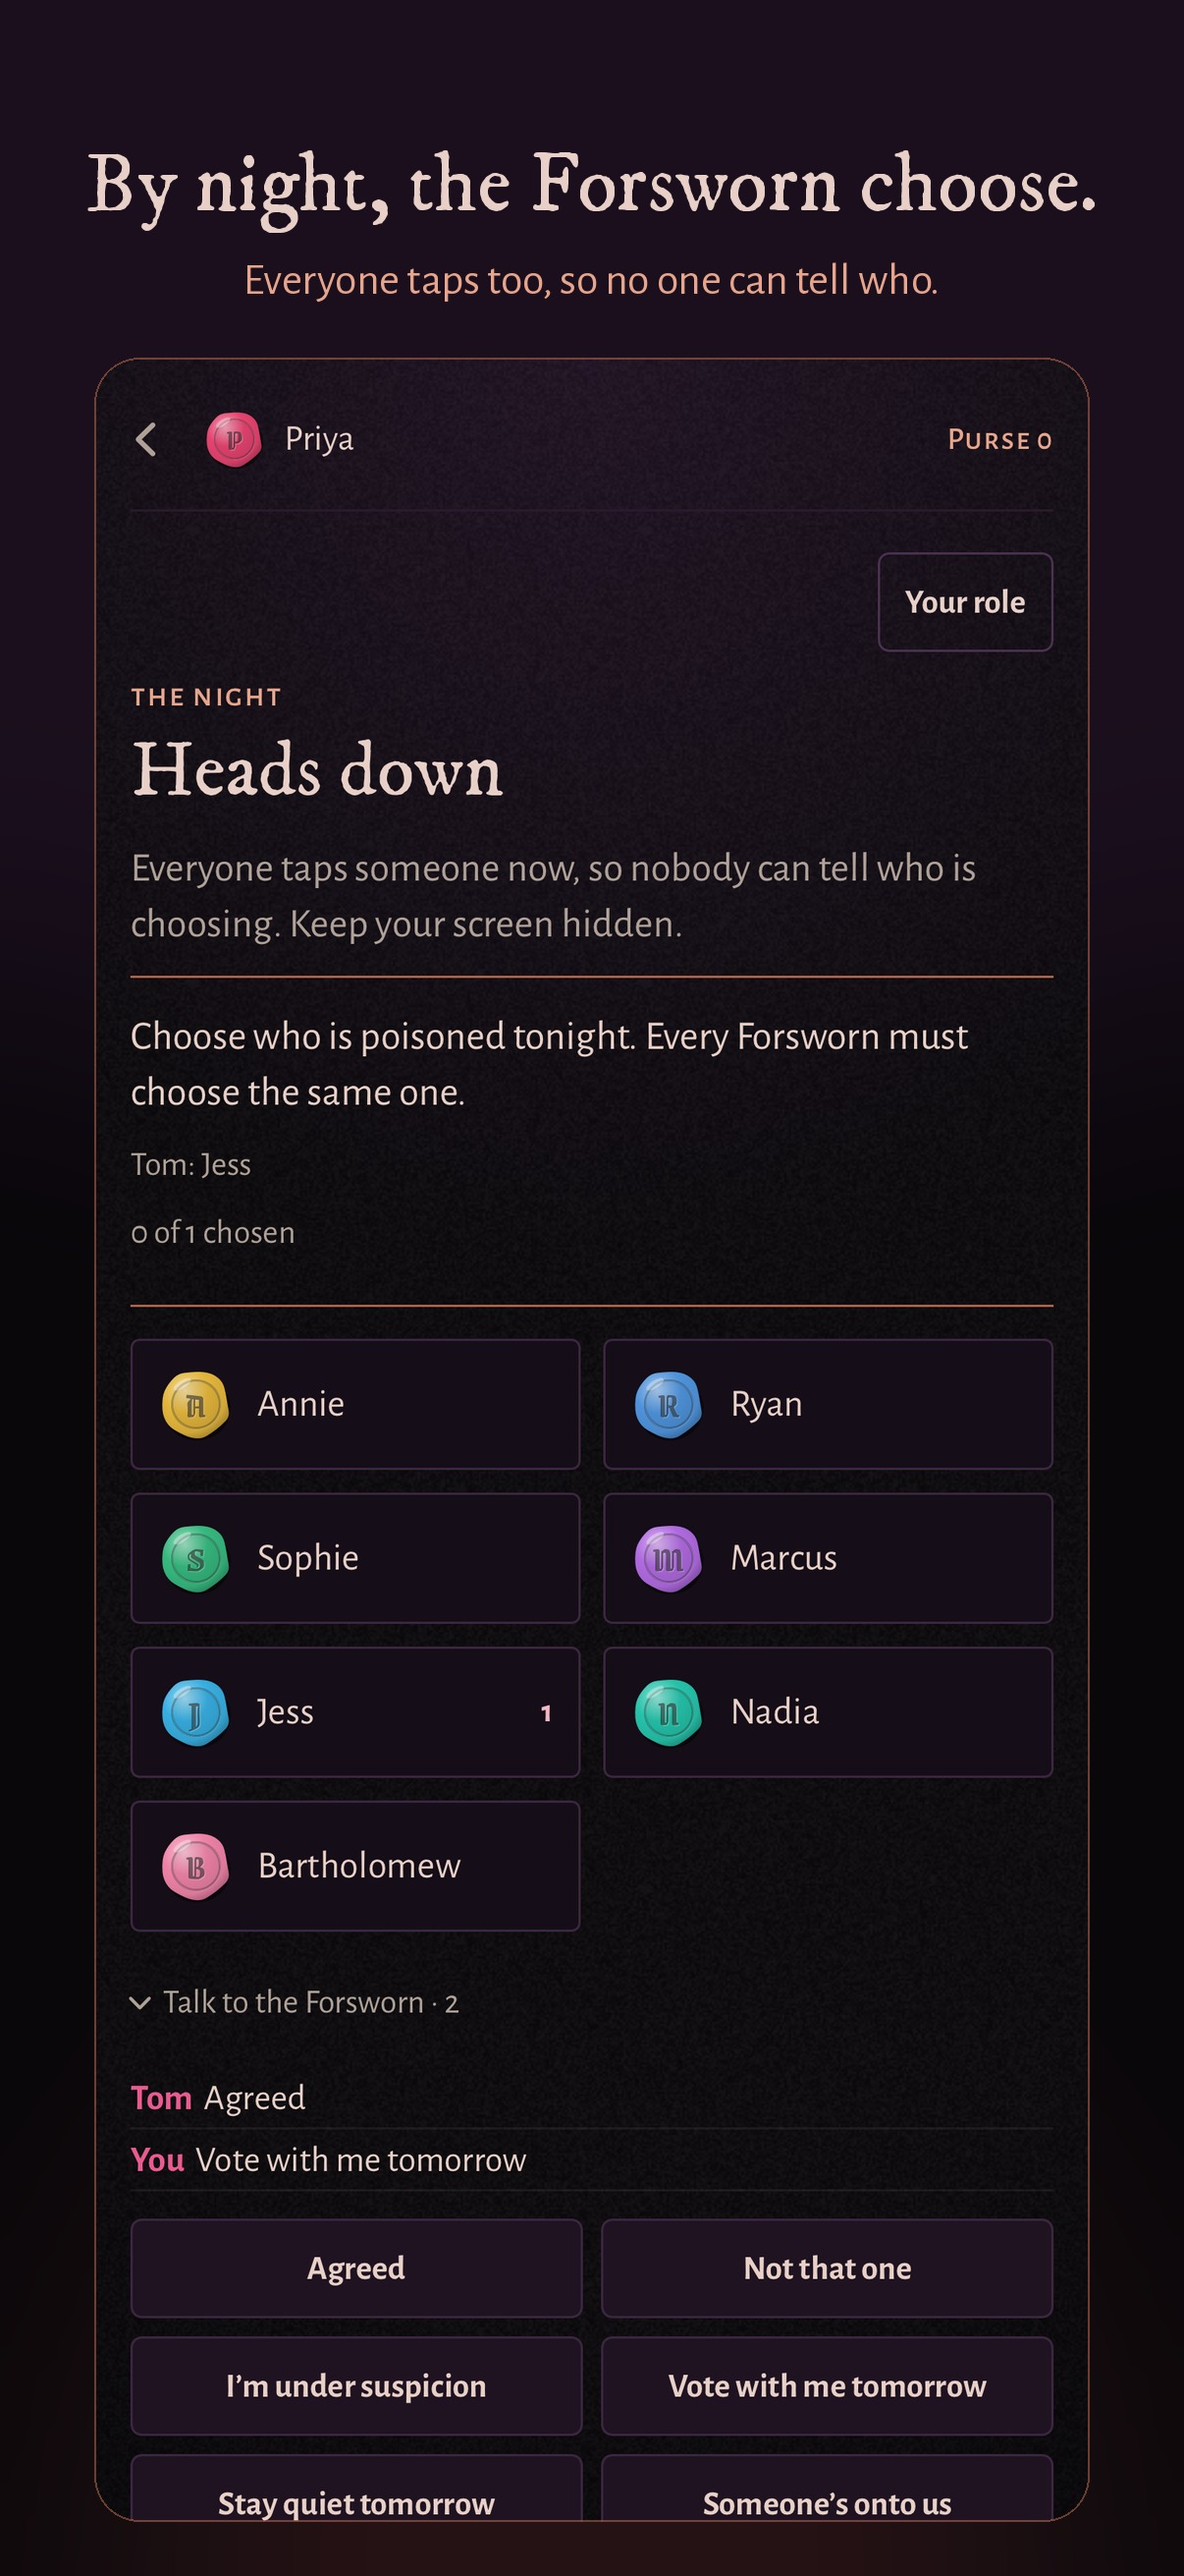
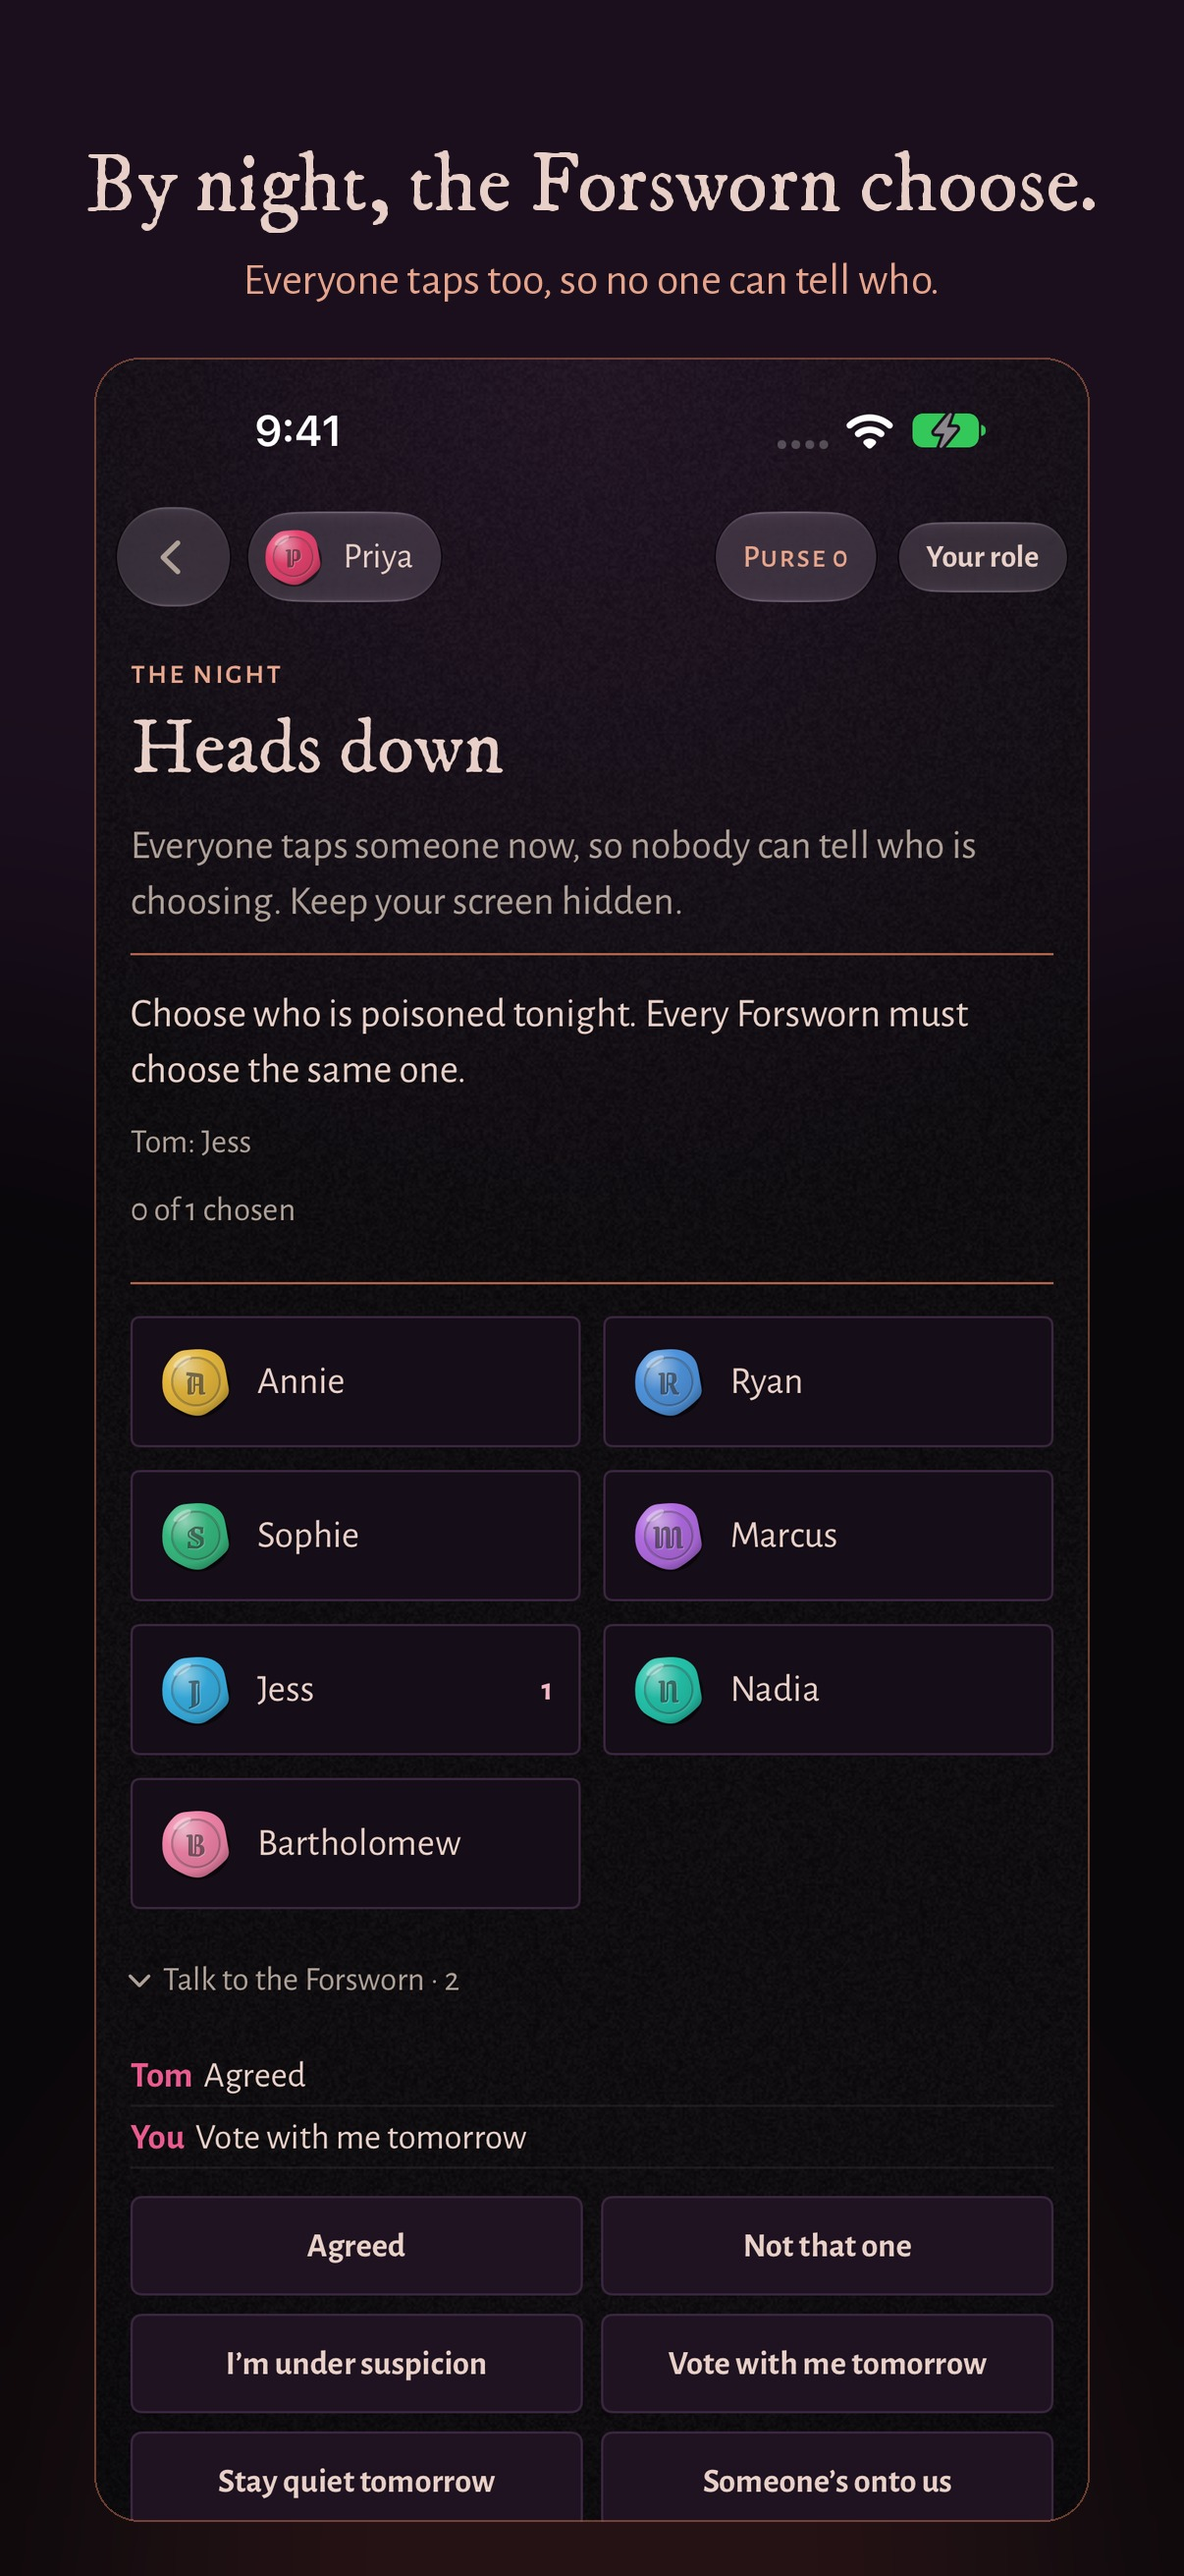
1.1's store screenshots; the premise's pages sized from the space left for them
The screenshots (store/screenshots/, composed by store/compose.py from run 41936727994's pictures): the iPhones'
photographed in the simulator with the glass top bar; the Duo's drawn at its inner screen's size with the sidebar,
the Forsworn's chat field now drawn; the iPad's the TV, as before.

The premise's paging ScrollView took the pages' height from itself, which took its height from them: the column
outgrew the screen, so Skip went off the top and "Read the full rules" off the bottom. The pages now take the size
of the space between Skip and the dots, as the TabView did.

Claude-Session: https://claude.ai/code/session_0145tpkbqjBvpbDCNomApotW

diff --git a/TheBetrayal/UI/HomeView.swift b/TheBetrayal/UI/HomeView.swift
@@ -481,17 +481,21 @@ struct IntroView: View {
                 Button(ready == "Done" ? "Close" : "Skip", action: done).glassButton()
             }
             // (not a paged TabView: on an iPad it left the page blank)
-            ScrollViewReader { proxy in
-                ScrollView(.horizontal) {
-                    HStack(spacing: 0) {
-                        ForEach(IntroView.steps.indices, id: \.self) { i in step(IntroView.steps[i]).containerRelativeFrame([.horizontal, .vertical]).id(i) }
+            // each page the size of the space left between Skip and the dots (not the scroll view's, which takes its
+            // height from them: the column would outgrow the screen)
+            GeometryReader { g in
+                ScrollViewReader { proxy in
+                    ScrollView(.horizontal) {
+                        HStack(spacing: 0) {
+                            ForEach(IntroView.steps.indices, id: \.self) { i in step(IntroView.steps[i]).frame(width: g.size.width, height: g.size.height).id(i) }
+                        }
+                        .scrollTargetLayout()
                     }
-                    .scrollTargetLayout()
+                    .scrollTargetBehavior(.paging)
+                    .scrollIndicators(.hidden)
+                    .scrollPosition(id: Binding(get: { at }, set: { if let i = $0 { at = i } }))
+                    .onAppear { if at > 0 { proxy.scrollTo(at) } }
                 }
-                .scrollTargetBehavior(.paging)
-                .scrollIndicators(.hidden)
-                .scrollPosition(id: Binding(get: { at }, set: { if let i = $0 { at = i } }))
-                .onAppear { if at > 0 { proxy.scrollTo(at) } }
             }
             HStack(spacing: 8) {
                 ForEach(IntroView.steps.indices, id: \.self) { i in Circle().fill(i == at ? Theme.brass2 : Theme.edge).frame(width: 8, height: 8) }
